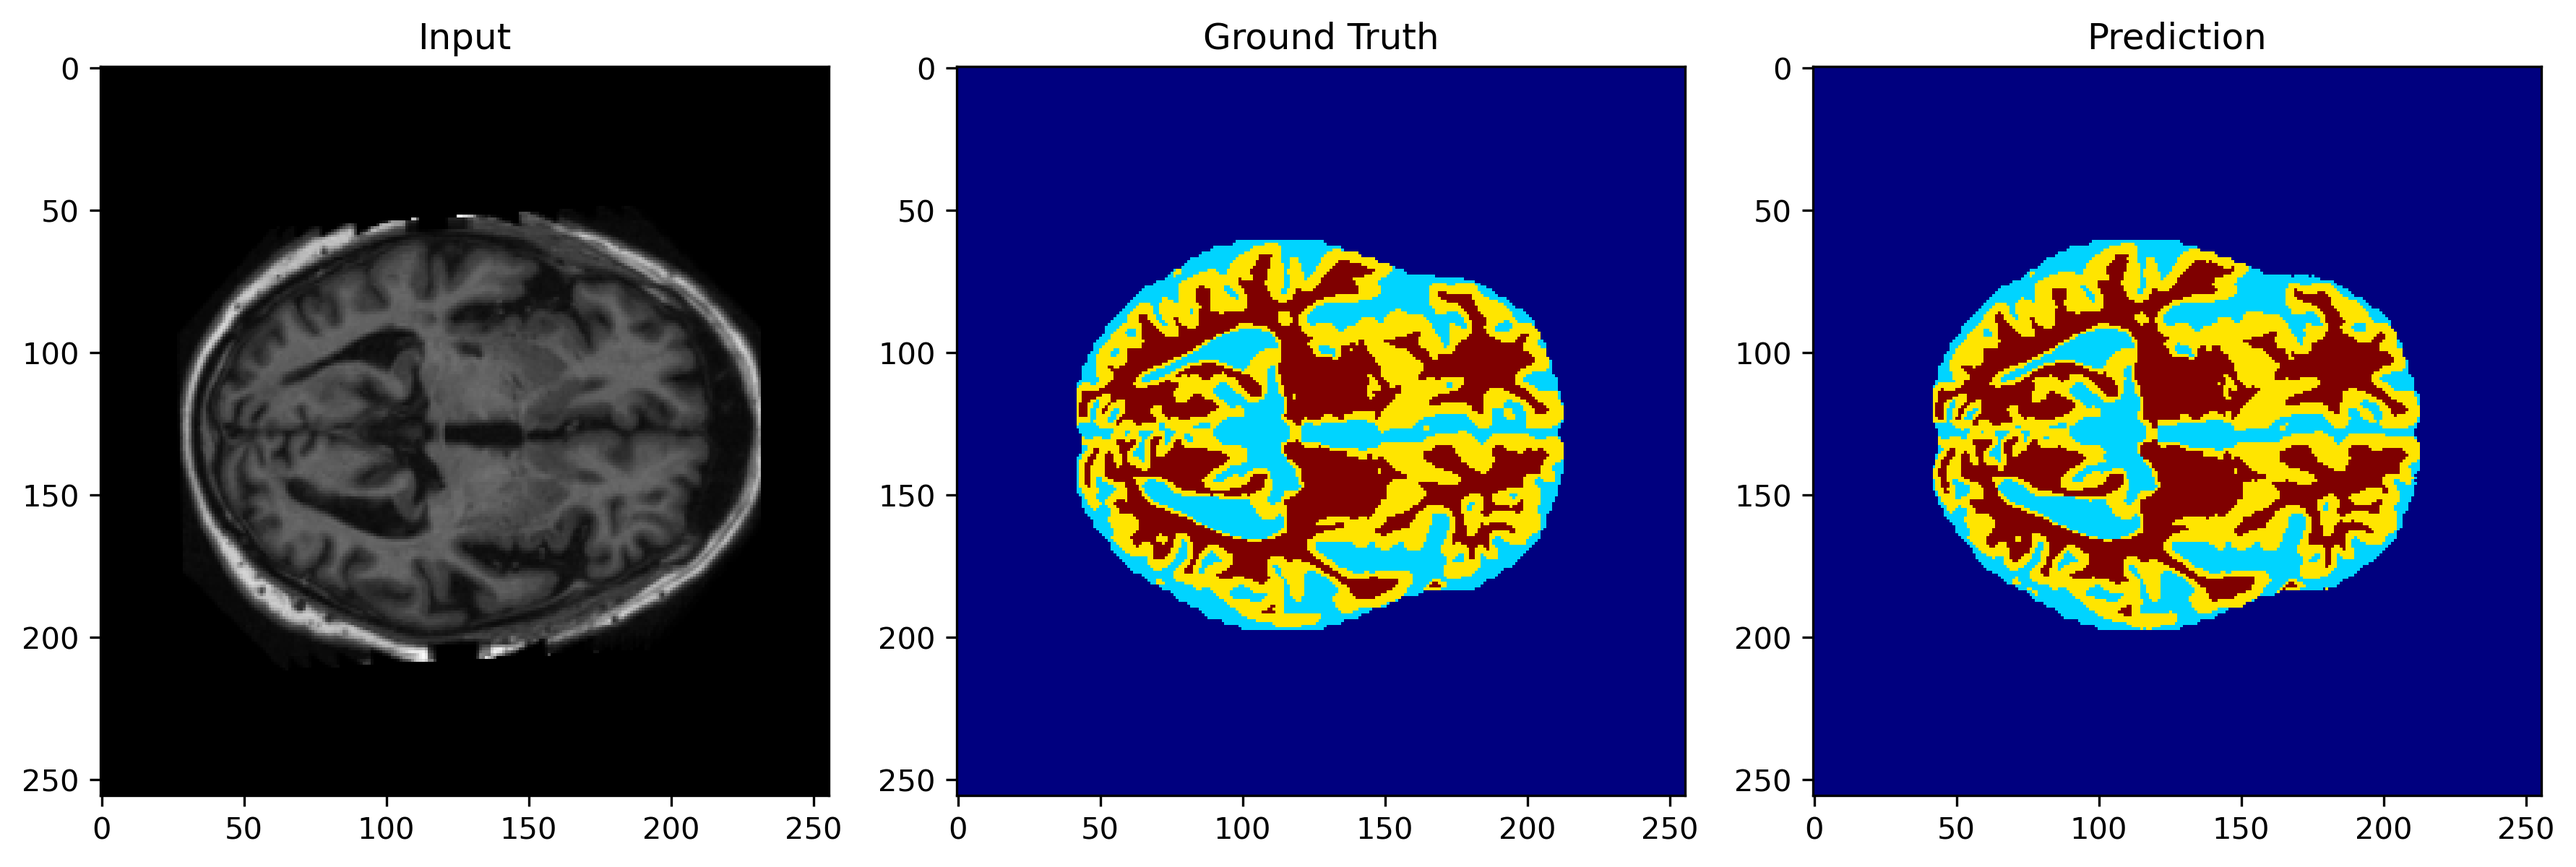
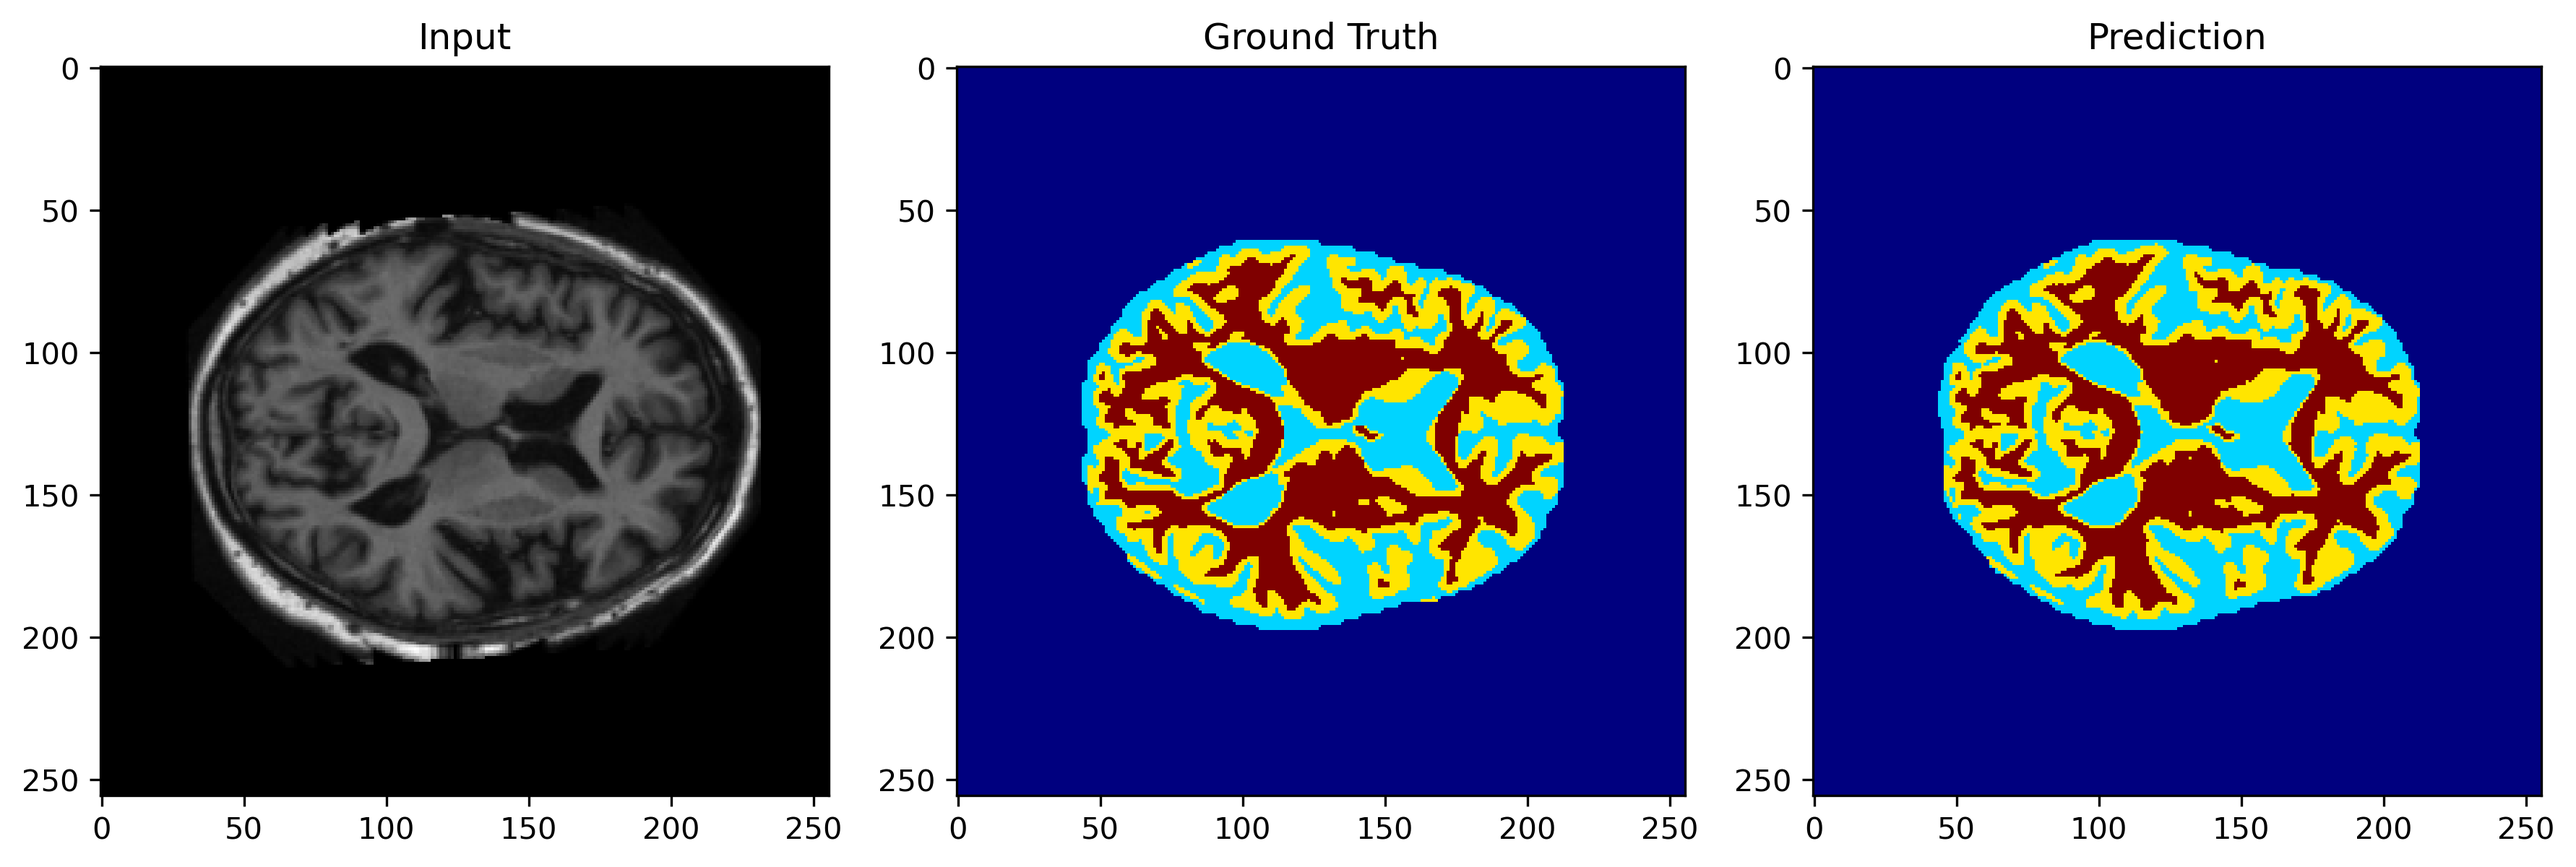
Completion of README file, adds testing, results, and documentation section Final adjustment to train.py so default parameters match those in README Fixed the function in predict.py to properly graph the dice scores Adds the image of the dice scores to the documentation

Changed region(s): [[0.0623, 0.2467, 0.3114, 0.7708], [0.4048, 0.2775, 0.6227, 0.74], [0.7473, 0.2775, 0.9341, 0.74]]

diff --git a/recognition/2D_OASIS_s43971125/train.py b/recognition/2D_OASIS_s43971125/train.py
@@ -68,7 +68,7 @@ if __name__ == "__main__":
     #device = torch.device("cpu")
 
     # Set the training paremeters
-    num_epochs = 25 
+    num_epochs = 50 
     batch_size = 4
     learning_rate = 1e-4
     save_path = "best_improved.pth"
@@ -106,7 +106,7 @@ if __name__ == "__main__":
             running_loss += loss.item()
 
         avg_loss = running_loss / len(train_load)
-        print(f"Epoch {epoch+1} finished, Avg Loss: {avg_loss:.4f}")
+        #print(f"Epoch {epoch+1} finished, Avg Loss: {avg_loss:.4f}")
 
         #Validation Step
         model.eval()
@@ -126,13 +126,13 @@ if __name__ == "__main__":
         mean_val_dice = mean_dice.mean().item()
 
         # Print per-class results and average results
-        print(f"Validation Dice per class: {mean_dice.cpu().numpy()}")
-        print(f"Mean Validation Dice: {mean_val_dice:.4f}")
+        #print(f"Validation Dice per class: {mean_dice.cpu().numpy()}")
+        #print(f"Mean Validation Dice: {mean_val_dice:.4f}")
 
         # Mean probability for each class
         probs = torch.softmax(outputs, dim=1)
         mean_probs = probs.mean(dim=(0, 2, 3))
-        print(f"Mean predicted probabilities per class: {mean_probs.cpu().numpy()}")
+        #print(f"Mean predicted probabilities per class: {mean_probs.cpu().numpy()}")
 
 
         # Save the best model so far, based on the average Dice score
@@ -140,10 +140,10 @@ if __name__ == "__main__":
             torch.save(model.state_dict(), save_path)
             best_val_dice = mean_val_dice
             best_per_class = mean_dice.cpu().numpy()
-            print(f"✅ New best model saved (Avg Dice: {mean_val_dice:.4f}, per class: {best_per_class})")
+            #print(f"✅ New best model saved (Avg Dice: {mean_val_dice:.4f}, per class: {best_per_class})")
 
         #blank line to separate each epoch printout in the log
-        print()
+        #print()
 
     # Final test evaluation to find Dice Coefficient for each class
     model.load_state_dict(torch.load(save_path))
@@ -158,5 +158,5 @@ if __name__ == "__main__":
             dice_totals += dice_scores.to(device)
     dice_averages = dice_totals / len(test_load)
 
-    for i, dice in enumerate(dice_averages):
-        print(f"Class {i} Dice: {dice:.4f}")
+    #for i, dice in enumerate(dice_averages):
+    #    print(f"Class {i} Dice: {dice:.4f}")

diff --git a/recognition/2D_OASIS_s43971125/predict.py b/recognition/2D_OASIS_s43971125/predict.py
@@ -88,10 +88,6 @@ def predict_and_visualise_per_class(model, dataset_split="test", sample_index=0,
         probs = torch.softmax(output, dim=1)  # [B, C, H, W]
         predicted = torch.argmax(output, dim=1)
 
-    # Compute Dice per class
-    dice_scores = dice_coefficient(output, label, num_classes=num_classes)
-    print(f"Dice per Class (sample {sample_index}):", dice_scores)
-
     # Visualise results
     n_cols = 3 + num_classes  # input + GT + overall prediction + per-class
     plt.figure(figsize=(4 * n_cols, 4))
@@ -112,9 +108,10 @@ def plot_dice_scores(dice_scores, save_path="dice_scores.png"):
     """
     Plots a bar chart of Dice scores for each class.
     """
-    classes = [f"Class {i}" for i in range(len(dice_scores))]
+    dice_scores_np = dice_scores.cpu().numpy()
+    classes = [f"Class {i}" for i in range(len(dice_scores_np))]
     plt.figure(figsize=(6, 4))
-    plt.bar(classes, dice_scores, color="skyblue", edgecolor="black")
+    plt.bar(classes, dice_scores_np, color="skyblue", edgecolor="black")
     plt.ylim(0, 1.05)
     plt.ylabel("Dice Score")
     plt.title("Dice Score per Class")

diff --git a/recognition/2D_OASIS_s43971125/README.md b/recognition/2D_OASIS_s43971125/README.md
@@ -43,7 +43,7 @@ better gradient flow (because it provides the gradient from all levels of the de
 stabilises faster which speeds it up) and improved accuracy (because we are taking outputs from all levels of the encoder,
 intermediate features are more prominent, which will lead to better final predictions
 
-![Improed UNet Architecture](documentation/Improved_UNet.png)
+![Improved UNet Architecture](documentation/Improved_UNet.png)
 
 # Loading Data
 [dataset.py](dataset.py)
@@ -72,12 +72,26 @@ for each weight and adjusting how much each weight is updated. It's a very commo
 such as UNet.
 
 # Testing
-
+The model was tested by measuring the Dice Scores for each class. Each Dice score is calculated independently to
+avoid imbalanced class errors. See results for an example of the input and output, the probability maps for
+each class, and the dice scores per class.
 
 # Result
+Dice scores per class
+Class 0: 0.9993
+Class 1: 0.9585
+Class 2: 0.9653
+Class 3: 0.9783
+![Dice Scores](documentation/dice_dcores.png)
+
+Example input-output
+![Visualisation](documentation/prediction_example.png)
+
+Example per-class visualisation
+![Per-class visualisation](documentation/prediction_per_class.png)
 
 # References
-Lecture Slides for PNGs
+Lecture Slides for model PNGs
 
 # Dependencies
 pytorch=2.6.0
